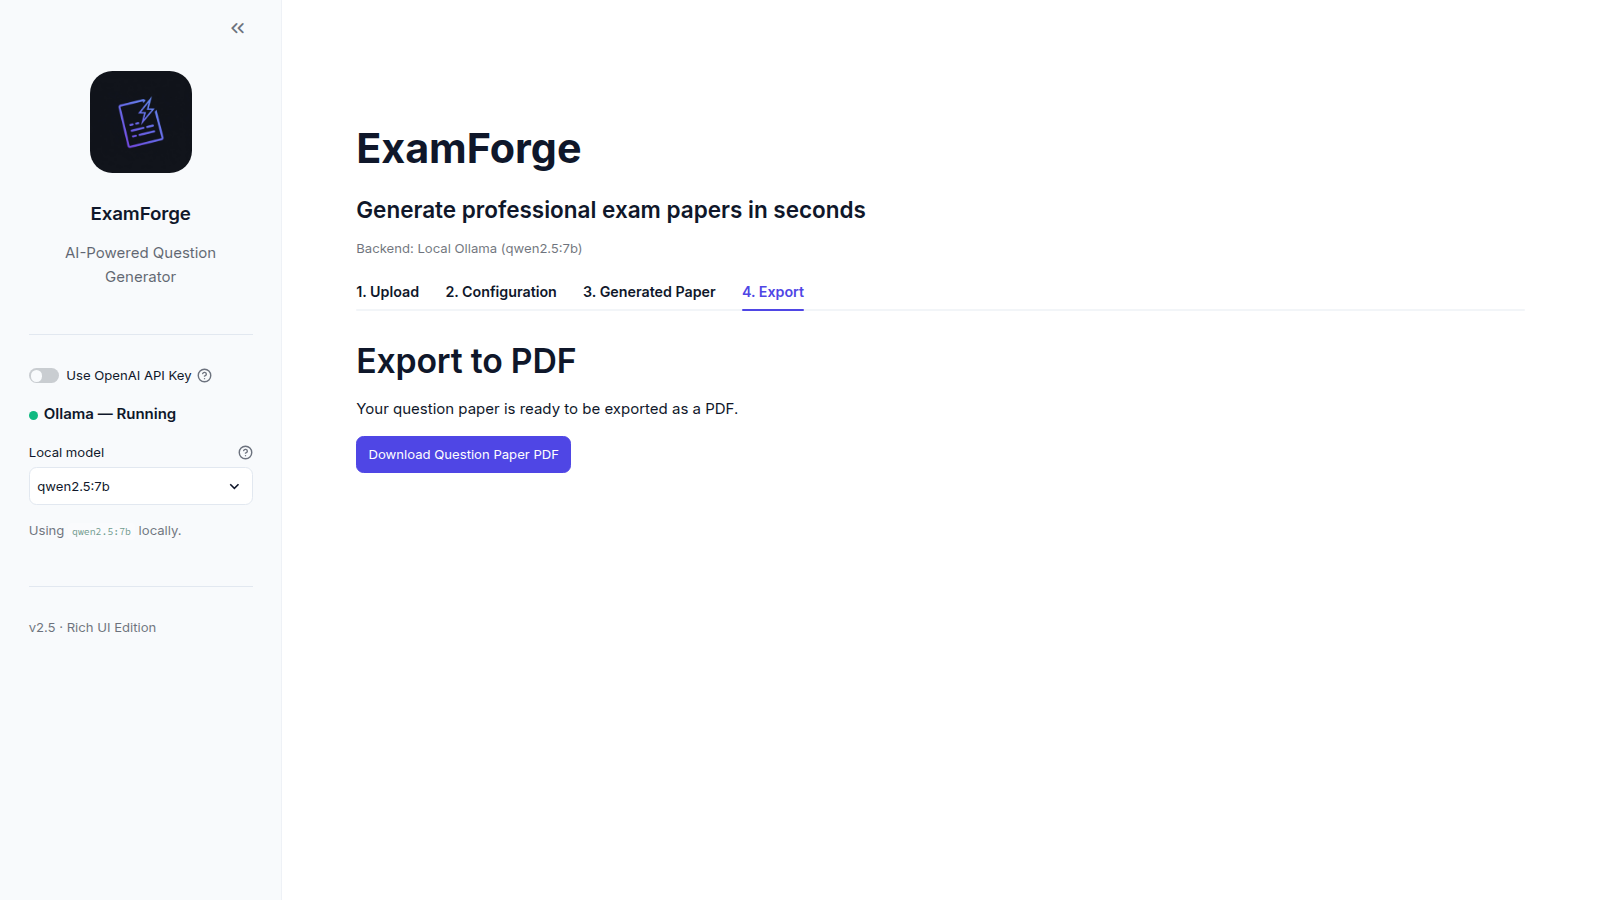
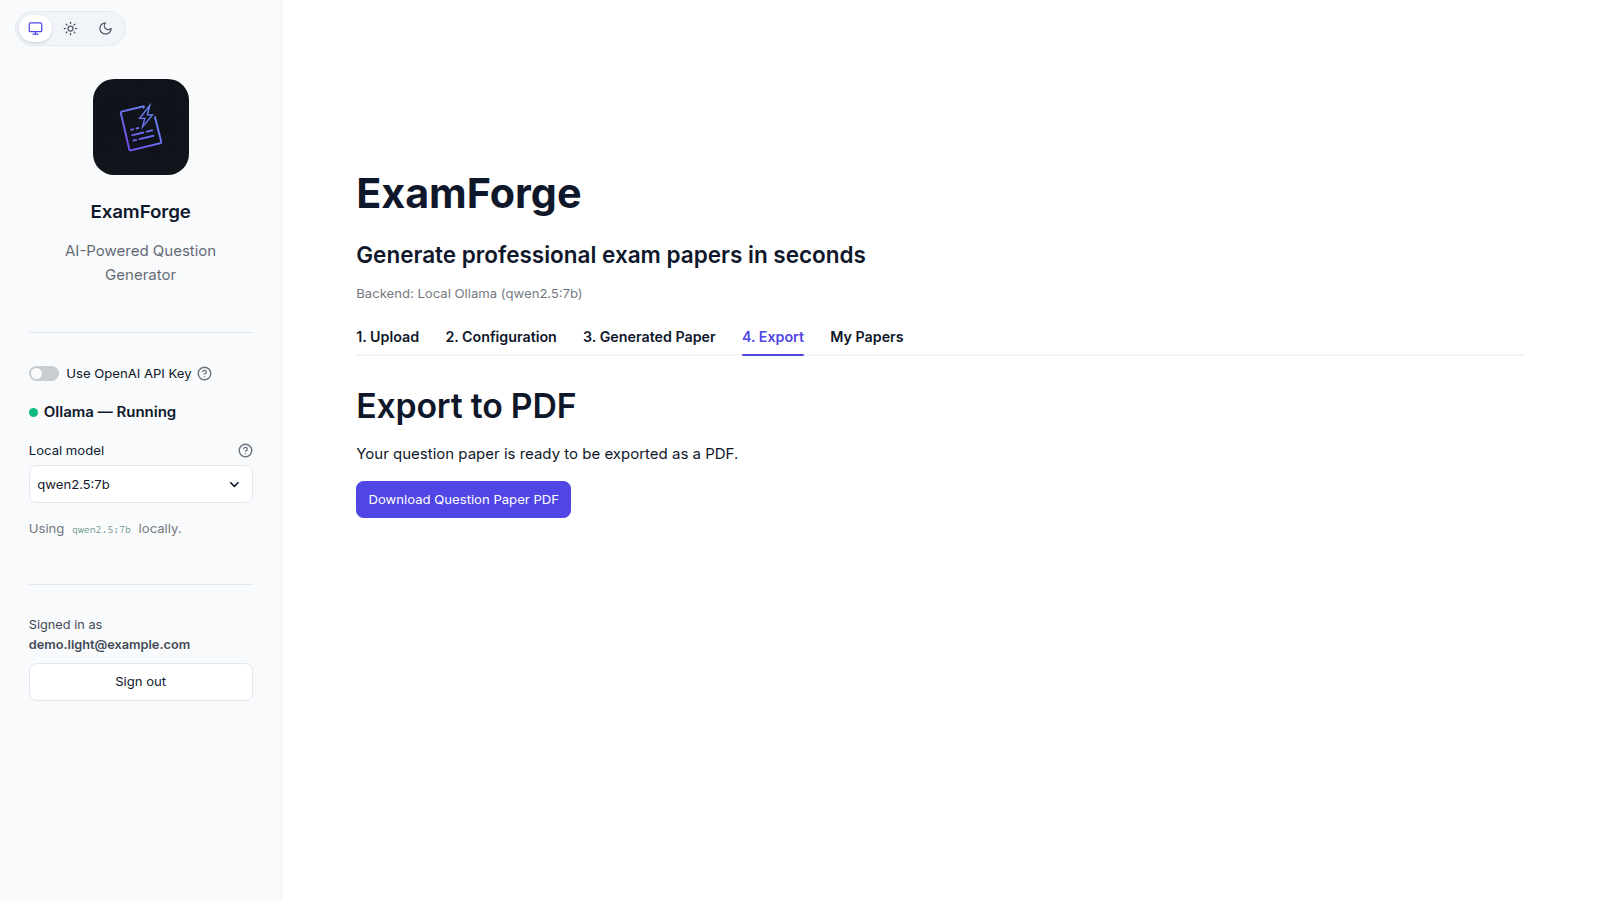
README: refresh screenshots, add Sign In and My Papers

diff --git a/README.md b/README.md
@@ -24,7 +24,15 @@ ExamForge is a professional web application that allows educators to upload a sy
 
 Screenshots follow your GitHub theme: switch GitHub between light and dark mode to see both.
 
-### 1. Upload & Analyze Syllabus
+### 1. Sign In
+Sign in or create a free account (with MongoDB accounts enabled). Switch between System, Light and Dark themes from the top-left corner.
+
+<picture>
+  <source media="(prefers-color-scheme: dark)" srcset="assets/screenshots/signin-dark.png">
+  <img alt="ExamForge sign-in page with brand panel, sign-in form and theme switch" src="assets/screenshots/signin-light.png">
+</picture>
+
+### 2. Upload & Analyze Syllabus
 Upload your syllabus and select your AI backend (Local or Cloud).
 
 <picture>
@@ -32,7 +40,7 @@ Upload your syllabus and select your AI backend (Local or Cloud).
   <img alt="ExamForge upload tab with discovered syllabus topics" src="assets/screenshots/upload-light.png">
 </picture>
 
-### 2. Exam Configuration
+### 3. Exam Configuration
 Define your exact exam marks and difficulty level.
 
 <picture>
@@ -40,7 +48,7 @@ Define your exact exam marks and difficulty level.
   <img alt="Exam configuration with exam name, difficulty and marks distribution" src="assets/screenshots/configuration-light.png">
 </picture>
 
-### 3. Generated Question Paper
+### 4. Generated Question Paper
 Instantly generate and review balanced questions tailored to your marks distribution.
 
 <picture>
@@ -48,12 +56,20 @@ Instantly generate and review balanced questions tailored to your marks distribu
   <img alt="Generated question paper with questions, topics and marks" src="assets/screenshots/generated-paper-light.png">
 </picture>
 
-### 4. PDF Export
+### 5. PDF Export
 Download a professionally formatted question paper ready for print.
 
 <picture>
   <source media="(prefers-color-scheme: dark)" srcset="assets/screenshots/export-dark.png">
   <img alt="Export tab with the Download Question Paper PDF button" src="assets/screenshots/export-light.png">
+</picture>
+
+### 6. My Papers
+Every paper you generate is saved to your account, to reopen, re-download or delete later.
+
+<picture>
+  <source media="(prefers-color-scheme: dark)" srcset="assets/screenshots/my-papers-dark.png">
+  <img alt="My Papers tab listing a saved exam paper with Open, Download PDF and Delete" src="assets/screenshots/my-papers-light.png">
 </picture>
 
 ## Setup Instructions
